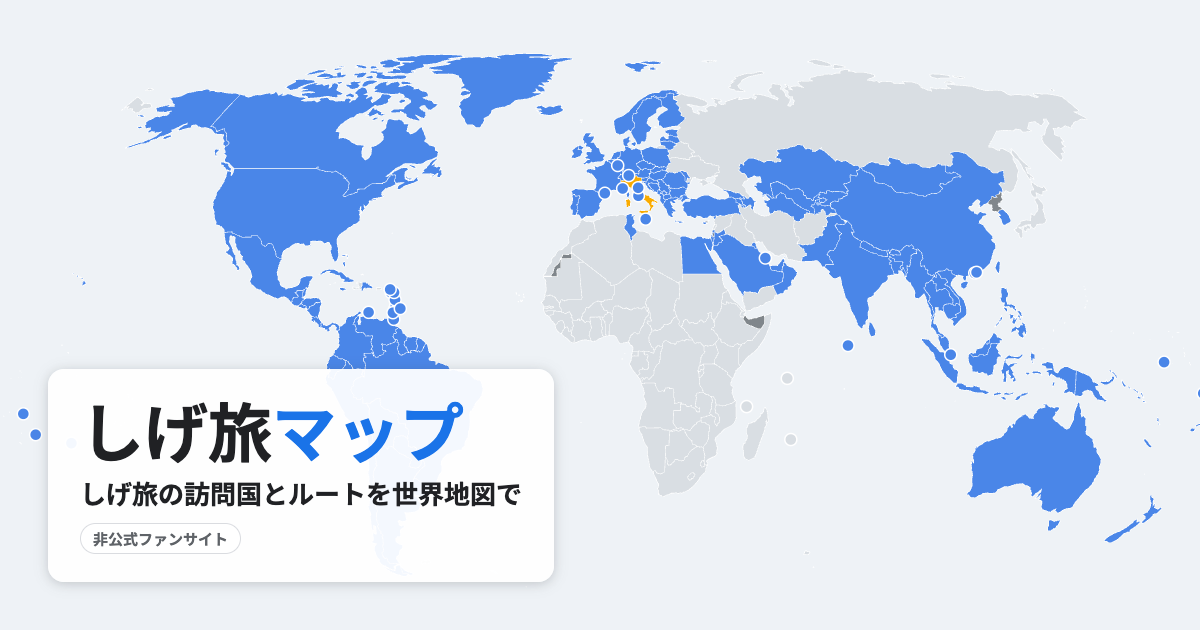
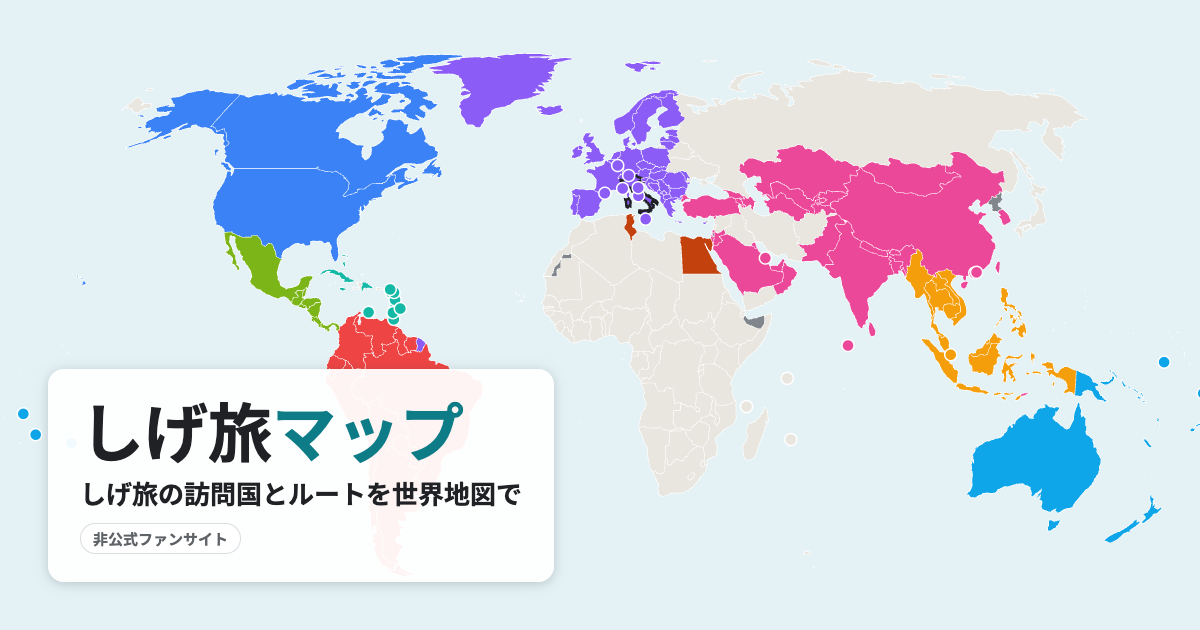
配色を変更：行った国をシリーズごとの色で塗る（スタンプ帳風）
- 行った国は最初に行ったシリーズの色で塗る。色は playlists.json の color で指定し series.json に引き継ぐ
- シリーズページとシリーズカードは、そのシリーズの国だけシリーズの色、ほかのシリーズで行った国は薄く
- 最新動画の国は黄色の塗りをやめ黒い縁取りにする
- アクセントを Google の青からティールに、背景・海・陸を温かみのある色に
- 凡例をシリーズの色の一覧にし、スマホでは横スクロール
- OGP 画像を新しい配色で作り直し

diff --git a/src/styles/global.css b/src/styles/global.css
@@ -1,9 +1,10 @@
 /* ユニバーサル（Googleマップ風）。ライトモードのみ */
 :root {
-  --bg: #f8f9fa; --surface: #ffffff; --ink: #202124; --muted: #5f6368; --line: #dadce0;
-  --accent: #1a73e8;
-  --sea: #eef2f6; --land: #d9dee3; --land-hover: #c9cfd6;
-  --unrecognized: #80868b; --visited: #4a86e8; --latest: #f9ab00; --route: #3c4043;
+  --bg: #fafaf7; --surface: #ffffff; --ink: #202124; --muted: #5f6368; --line: #e4e1da;
+  --accent: #0e7c86;
+  --sea: #e4f2f6; --land: #e9e6df; --land-hover: #ddd8ce;
+  /* 行った国はシリーズごとの色（Base.astro で .s-<id> に色を付ける）。--visited はシリーズ外の動画だけの国、--visited-dim はシリーズページでほかのシリーズの国 */
+  --unrecognized: #80868b; --visited: #5b8c99; --visited-dim: #c3d3d9; --route: #3c4043;
   --aura1: #ffd34d; --aura2: #ff4f8b; --aura3: #7b5cff;
   --f-body: "Noto Sans JP", "Hiragino Sans", system-ui, sans-serif;
   --f-num: "Roboto", "Noto Sans JP", system-ui, sans-serif;
@@ -41,14 +42,18 @@ img { max-width: 100%; display: block; }
 .mapcard > svg { display: block; width: 100%; height: auto; aspect-ratio: 1000 / 520; cursor: grab; }
 .mapcard > svg.drag { cursor: grabbing; }
 .c { fill: var(--land); stroke: var(--surface); stroke-width: 0.6; vector-effect: non-scaling-stroke; transition: fill 0.15s; }
-.mapcard .c:hover { fill: var(--land-hover); }
+.mapcard .c:not(.v):not(.u):hover { fill: var(--land-hover); }
 .c.u, .mapcard .c.u:hover { fill: var(--unrecognized); }
-.c.v { fill: var(--visited); }
-.mapcard .c.v:hover { fill: var(--visited); filter: brightness(1.08); }
-.c.lat, .mapcard .c.lat:hover { fill: var(--latest); }
+:where(.c.v) { fill: var(--visited); }
+.mapcard .c.v:hover { filter: brightness(1.1); }
+/* シリーズページ・シリーズカード：そのシリーズの国だけシリーズの色、ほかのシリーズで行った国は薄く */
+.focus .c.v { fill: var(--visited-dim); }
+.focus .c.v.in { fill: var(--focus); }
+/* 最新動画の国は黒い縁取り */
+.c.lat { stroke: var(--ink); stroke-width: 2.5; }
 .c.sel { stroke: var(--ink); stroke-width: 2; }
 .c.dot { stroke: var(--surface); stroke-width: 1.5; }
-.c.dot.sel { stroke: var(--ink); }
+.c.dot.sel, .c.dot.lat { stroke: var(--ink); stroke-width: 2.5; }
 .rt { fill: none; stroke: var(--route); stroke-width: 1.3; stroke-dasharray: 4 3; opacity: 0.75; }
 .st { pointer-events: none; }
 .st circle { fill: var(--surface); stroke: var(--route); stroke-width: 1.2; }
@@ -71,6 +76,8 @@ img { max-width: 100%; display: block; }
 .maplegend { position: absolute; left: 12px; bottom: 12px; display: flex; flex-wrap: wrap; gap: 4px 12px; font-size: 12px; background: var(--surface); box-shadow: var(--shadow); border-radius: 8px; padding: 6px 10px; max-width: calc(100% - 24px - 150px); }
 .maplegend span { display: inline-flex; align-items: center; gap: 6px; white-space: nowrap; }
 .sw { width: 12px; height: 12px; border-radius: 3px; display: inline-block; flex: none; }
+.sw.outline { background: transparent; box-shadow: inset 0 0 0 2.5px var(--ink); }
+.maplegend .lg-h { font-weight: 700; color: var(--muted); }
 .routebtn { position: absolute; right: 12px; bottom: 12px; border: 1px solid var(--line); background: var(--surface); border-radius: 8px; padding: 6px 12px; font-size: 12px; font-weight: 700; color: var(--accent); box-shadow: 0 1px 2px rgba(60, 64, 67, 0.3); }
 .routebtn[aria-pressed="true"] { background: var(--accent); color: var(--surface); border-color: var(--accent); }
 .tip { position: absolute; z-index: 4; pointer-events: none; background: var(--ink); color: var(--bg); font-size: 12px; padding: 4px 8px; border-radius: 6px; white-space: nowrap; transform: translate(-50%, -130%); }
@@ -132,6 +139,7 @@ img { max-width: 100%; display: block; }
 .mini .c { stroke-width: 0.4; }
 .scard .bd { padding: 12px 14px; display: grid; gap: 2px; }
 .scard .nm { font-weight: 700; font-size: 17px; line-height: 1.3; display: flex; align-items: center; gap: 8px; }
+.scard .nm .sdot { width: 10px; height: 10px; border-radius: 50%; flex: none; }
 .scard .nm .arr { margin-left: auto; color: var(--muted); font-weight: 400; }
 .scard .pd { font: 500 11px var(--f-num); color: var(--muted); }
 .scard .cs { font-size: 12px; color: var(--muted); overflow: hidden; text-overflow: ellipsis; white-space: nowrap; }
@@ -158,7 +166,7 @@ img { max-width: 100%; display: block; }
 .sp-meta b { display: block; font-family: var(--f-num); font-weight: 700; font-size: 20px; color: var(--ink); font-variant-numeric: tabular-nums; }
 .box { background: var(--surface); border: 1px solid var(--line); border-radius: var(--r); padding: 16px; min-width: 0; margin-top: 16px; }
 .box > h2 { font-size: 12px; letter-spacing: 0.08em; color: var(--muted); margin-bottom: 12px; }
-.seq { width: 22px; height: 22px; border-radius: 50%; background: var(--accent); color: var(--surface); display: inline-grid; place-items: center; font: 500 10px var(--f-num); flex: none; }
+.seq { width: 22px; height: 22px; border-radius: 50%; background: var(--focus, var(--accent)); color: var(--surface); display: inline-grid; place-items: center; font: 500 10px var(--f-num); flex: none; }
 .vgroup { display: grid; grid-template-columns: 200px minmax(0, 1fr); gap: 16px; align-items: start; scroll-margin-top: 12px; border-radius: 8px; }
 .vgroup + .vgroup { margin-top: 18px; padding-top: 16px; border-top: 1px solid var(--line); }
 .vgroup h3 { font-size: 16px; display: flex; flex-direction: column; gap: 2px; position: sticky; top: 12px; }
@@ -201,7 +209,8 @@ img { max-width: 100%; display: block; }
   .main { grid-template-columns: minmax(0, 1fr); }
   .mapcard { margin-inline: -16px; border-radius: 0; border-inline: 0; }
   .mapcard > svg { aspect-ratio: 4 / 3.4; }
-  .maplegend { bottom: 10px; left: 10px; font-size: 11px; max-width: calc(100% - 20px); }
+  /* スマホの凡例は1行にして横にスクロール */
+  .maplegend { bottom: 10px; left: 10px; right: 10px; font-size: 11px; max-width: none; flex-wrap: nowrap; overflow-x: auto; scrollbar-width: none; }
   .routebtn { top: 10px; left: 10px; bottom: auto; right: auto; }
   .mapctl { top: 10px; right: 10px; }
   .mapctl button { width: 40px; height: 40px; }

diff --git a/src/lib/data.ts b/src/lib/data.ts
@@ -21,6 +21,8 @@ export type Series = {
   started: string;
   ended: string | null;
   playlist_id: string;
+  /** 地図の色（playlists.json で指定） */
+  color?: string;
 };
 export type Video = {
   video_id: string;
@@ -63,6 +65,9 @@ export const location = locationJson as Location;
 
 const seriesById = new Map(allSeries.map((s) => [s.id, s]));
 export const getSeries = (id: string) => seriesById.get(id)!;
+/** シリーズの色。playlists.json で指定が無ければ順番に割り当てる */
+const FALLBACK = ['#8B5CF6', '#EF4444', '#3B82F6', '#14B8A6', '#EC4899', '#0EA5E9', '#F59E0B', '#7CB518', '#C2410C'];
+export const seriesColor = (id: string) => seriesById.get(id)?.color ?? FALLBACK[allSeries.findIndex((s) => s.id === id) % FALLBACK.length];
 const videoById = new Map(videos.map((v) => [v.video_id, v]));
 
 /* ---------- 国 ---------- */
@@ -194,3 +199,11 @@ export const visitedList = (() => {
   for (const v of videos.slice().sort((a, b) => filmedAt(a).localeCompare(filmedAt(b)))) for (const iso of v.countries) if (!first.has(iso)) first.set(iso, v);
   return [...first.entries()].map(([iso, v]) => ({ iso, name: countryName(iso), since: filmedAt(v), isCountry: isCountry(iso), series: seriesOfCountry(iso) }));
 })();
+
+/** その国・地域に初めて行ったシリーズ（色分け用）。シリーズ外の動画しか無い国は undefined */
+const firstSeries = new Map<string, string>();
+for (const v of videos.slice().sort((a, b) => filmedAt(a).localeCompare(filmedAt(b))))
+  if (v.series_id) for (const iso of v.countries) if (!firstSeries.has(iso)) firstSeries.set(iso, v.series_id);
+export const firstSeriesOf = (iso: string) => firstSeries.get(iso);
+/** そのシリーズの動画に出てくる国・地域 */
+export const countriesOfSeries = (id: string) => new Set(videosOfSeries(id).flatMap((v) => v.countries));

diff --git a/scripts/update-data.ts b/scripts/update-data.ts
@@ -29,7 +29,7 @@ const GEOCODE = !process.argv.includes('--no-geocode');
 /** 最後の公開からこの日数以内のシリーズは「旅の途中」とみなす */
 const ONGOING_DAYS = 45;
 
-type Playlist = { playlist_id: string; id: string; name: string; playlist_title: string };
+type Playlist = { playlist_id: string; id: string; name: string; playlist_title: string; color?: string };
 type Extract = { method: 'title' | 'llm' | 'manual' | 'unresolved'; confidence: number; reviewed: boolean };
 type Video = {
   video_id: string; title: string; published_at: string; duration: string;
@@ -294,7 +294,7 @@ async function main() {
       const lastPub = Math.max(...vs.map((v) => Date.parse(v.published_at)));
       const ov = overrides.series[pl.id] ?? {};
       const ended = 'ended' in ov ? ov.ended! : now - lastPub < ONGOING_DAYS * 864e5 ? null : month(ws.at(-1)!);
-      return { id: pl.id, name: ov.name ?? pl.name, playlist_title: pl.playlist_title, order: 0, started: month(ws[0]), ended, playlist_id: pl.playlist_id };
+      return { id: pl.id, name: ov.name ?? pl.name, playlist_title: pl.playlist_title, order: 0, started: month(ws[0]), ended, playlist_id: pl.playlist_id, color: pl.color };
     })
     .filter((s) => !!s)
     .sort((a, b) => a.started.localeCompare(b.started))

diff --git a/README.md b/README.md
@@ -22,7 +22,7 @@ Astro（静的出力）＋ d3-geo / world-atlas（Natural Earth 110m）。地図
 
 | ファイル | 書く人 | 内容 |
 |---|---|---|
-| `playlists.json` | 人 | シリーズにする再生リスト（許可リスト）。ルートとシリーズページはここから作る。訪問国はチャンネルの全動画（国旗のあるもの）から数える |
+| `playlists.json` | 人 | シリーズにする再生リスト（許可リスト）と地図の色（`color`）。行った国は最初に行ったシリーズの色で塗る。ルートとシリーズページはここから作る。訪問国はチャンネルの全動画（国旗のあるもの）から数える |
 | `overrides.json` | 人 | 判定の手動修正。`videos.<動画ID>` に `countries`（数字コード）/`cities`/`filmed_at`/`series_id`/`flight`/`exclude`、`series.<id>` に `ended`/`name` |
 | `cities.json` | 自動＋人 | 都市の座標キャッシュ（キーは `数字コード:都市名`）。見つからない都市は手で足す |
 | `videos.json` | 自動 | 動画。`tally` は概要欄の「しげ旅通算○/195ヶ国」（ヘッダーの国数は最新の動画のこの値。チャンネル開設前の旅行の国も含むので、地図で色が付く国より多い）。`countries` は ISO 3166 数字コード、`episode` は【南米#01】の番号、`filmed_at` はタイトル末尾の撮影期間、`flight` は移動回 |
